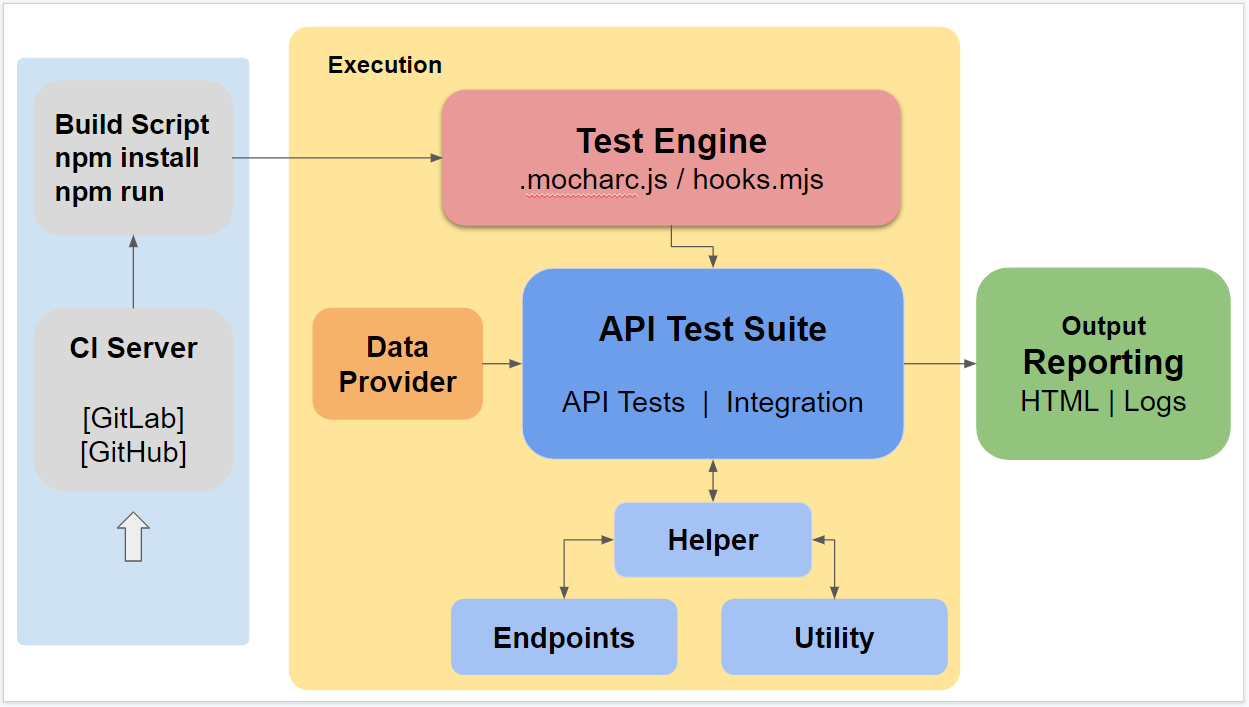
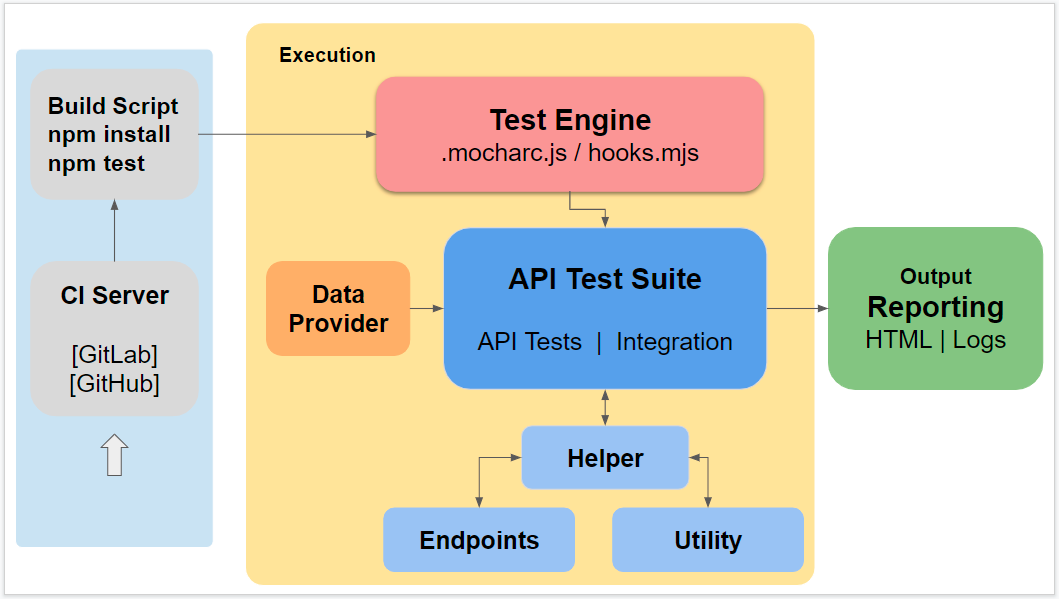
Added testcases for deleting given Task
Http delete request function added to http.util file

diff --git a/test/utility/http.util.js b/test/utility/http.util.js
@@ -3,16 +3,16 @@ import BaseUtil from '../utility/base.util.js'
 export default class HttpUtil extends BaseUtil {
 
     /**
-     * This function makes POST request
+     * This function makes HTTP POST request
      * @param {string} reqURL - URL to pass in request
      * @param {object} data  - this contains all the test data to pass in request
      * @returns {object} - this returns the entire response in required format
      */
 
-    post(reqURL, data, token="") {
+    post(reqURL, data, token = "") {
 
         if (token != "") {
-            data.reqHeader ['Authorization']=`Bearer ${token}`
+            data.reqHeader['Authorization'] = `Bearer ${token}`
         }
         const requestOptions = {
             method: 'POST',
@@ -21,19 +21,21 @@ export default class HttpUtil extends BaseUtil {
             timeout: 20000
         }
         console.log("Making POST Request to : ", reqURL)
-        return fetch(reqURL, requestOptions).then(this.handleResponse);
+        return fetch(reqURL, requestOptions).then(this.handleResponse)
     }
 
     /**
-     * 
+     * This function makes HTTP GET request
      * @param {string} reqURL - URL to pass in request
      * @param {string} token - token for authentication
      * @returns {object} - this returns the entire response in required format
      */
-    get(reqURL, token="") {
+    get(reqURL, token = "") {
 
         if (token != "") {
-            var reqHeader = {'Authorization':`Bearer ${token}` }
+            var reqHeader = {
+                'Authorization': `Bearer ${token}`
+            }
         }
 
         const requestOptions = {
@@ -42,7 +44,30 @@ export default class HttpUtil extends BaseUtil {
             timeout: 20000
         }
         console.log("Making GET Request to : ", reqURL)
-        return fetch(reqURL, requestOptions).then(this.handleResponse);
+        return fetch(reqURL, requestOptions).then(this.handleResponse)
+    }
+
+    /**
+     * This function makes HTTP DELETE request
+     * @param {string} reqURL - URL to pass in request
+     * @param {string} token - token for authentication
+     * @returns {object} - this returns the entire response in required format
+     */
+    delete(reqURL, token = "") {
+
+        if (token != "") {
+            var reqHeader = {
+                'Authorization': `Bearer ${token}`
+            }
+        }
+
+        const requestOptions = {
+            method: 'DELETE',
+            headers: reqHeader,
+            timeout: 20000
+        }
+        console.log("Making DELETE Request to : ", reqURL)
+        return fetch(reqURL, requestOptions).then(this.handleResponse)
     }
 
     //HTTP Helper function
@@ -52,15 +77,13 @@ export default class HttpUtil extends BaseUtil {
      * @param {object} response - raw response received from Http request
      * @returns {object} - this returns the entire response in required format
      */
-    handleResponse(response) {
-
-        return response.json().then(json => {
-            return {
-                status: response.status,
-                statusText: response.statusText,
-                body: json,
-                headers: response.headers
-            }
-        })
+    async handleResponse(response) {
+        let body = await response.json().catch(err => console.log("No body in response"))
+        return {
+            status: response.status,
+            statusText: response.statusText,
+            body: body,
+            headers: response.headers
+        }
     }
 }

diff --git a/test/specs/apiTests/02_tasks/02.3_deleteSingleTask.spec.js b/test/specs/apiTests/02_tasks/02.3_deleteSingleTask.spec.js
@@ -1,0 +1,52 @@
+import chai, {
+    assert
+} from 'chai'
+import authHelper from '../../../helper/auth.helper.js'
+import tasksHelper from '../../../helper/tasks.helper.js'
+import tasksData from '../../../dataProvider/tasks.data.js'
+import endpoints from '../../../helper/endpoints.helper.js'
+chai.use(require('chai-json-schema'))
+
+
+describe('Test Deleting a given Task - Endpoint: ' + endpoints.deleteTaskURL("<id>"), function () {
+    var newUser
+    var newTask
+
+    before('Setting Prerequisite data', async function () {
+        newUser = await authHelper.getNewUser()
+        newTask = await tasksHelper.setNewTask(newUser.token)
+    })
+
+    it(`Positive-Deleting given Task`, async function () {
+
+        let reqData = {
+            id: newTask.id,
+            token: newUser.token
+        }
+        //Making API request and saving response in a variable
+        var res = await tasksHelper.deleteTask(this, reqData)
+
+        //Asserting the Response
+        assert.equal(res.status, tasksData.status.status204)
+        assert.equal(res.statusText, tasksData.status.status204Text)
+    })
+
+    tasksData._deleteTask.invalidDataList.forEach(async function (test, index) {
+        it(`Negative-Deleting given invalid task: ${index+1} - ${test.testName}`, async function () {
+
+            //Creating Testdata Object
+            let reqData = {
+                id: test.taskId,
+                token: newUser.token
+            }
+
+            //Making API request and saving response in a variable
+            const res = await tasksHelper.deleteTask(this, reqData)
+
+            //Asserting the Response
+            assert.equal(res.status, tasksData.status.status404)
+            assert.equal(res.statusText, tasksData.status.status404Text)
+            assert.equal(res.body.message, tasksData.commonMsgs.invalidData)
+        })
+    })
+})

diff --git a/test/dataProvider/base.data.js b/test/dataProvider/base.data.js
@@ -14,12 +14,19 @@ export default class ErrorData {
             status201: 201,
             status201Text: "Created",
 
-            status422: 422,
-            status422Text: "Unprocessable Entity",
+            status204: 204,
+            status204Text: "No Content",
 
             status401: 401,
             status401Text: "Unauthorized",
+
+            status404: 404,
+            status404Text: "Not Found",
+        
+            status422: 422,
+            status422Text: "Unprocessable Entity",
         }
+           
     }
 
     /**

diff --git a/test/helper/tasks.helper.js b/test/helper/tasks.helper.js
@@ -32,6 +32,14 @@ class TasksHelper extends HttpUtil {
         return response
     }
 
+    async deleteTask(scope, reqData) {
+        let reqURL = Endpoints.deleteTaskURL(reqData.id)
+        let response = await this.delete(reqURL, reqData.token)
+
+        this.setContext(scope, reqData, response)
+        return response
+    }
+
     /**
      * This function helps to create a new task for given user
      * @returns {object} - Task datails

diff --git a/test/dataProvider/tasks.data.js b/test/dataProvider/tasks.data.js
@@ -282,5 +282,23 @@ class TasksData extends BaseData {
       ]
     }
   }
+
+  get _deleteTask() {
+    return {
+      invalidDataList: [{
+          testName: "Task ID is ==> 0",
+          taskId: 0,
+        },
+        {
+          testName: "Task ID is ==> 100",
+          taskId: 100,
+        },
+        {
+          testName: "Task ID is ==> -1",
+          taskId: -1,
+        }
+      ]
+    }
+  }
 }
 export default new TasksData()

diff --git a/test/helper/endpoints.helper.js b/test/helper/endpoints.helper.js
@@ -21,4 +21,9 @@ export default class Endpoints {
     static get getAllTasksURL() {
         return this.baseURL + "/api/v1/tasks"
     }
+
+    static deleteTaskURL(id) {
+        return this.baseURL + `/api/v1/tasks/${id}`
+    }
+
 }

diff --git a/README.md b/README.md
@@ -23,7 +23,7 @@ npm install
 
 Run the tests
 ```
-npm run
+npm test
 ```
 
 Generated Report can be accessed from below path
